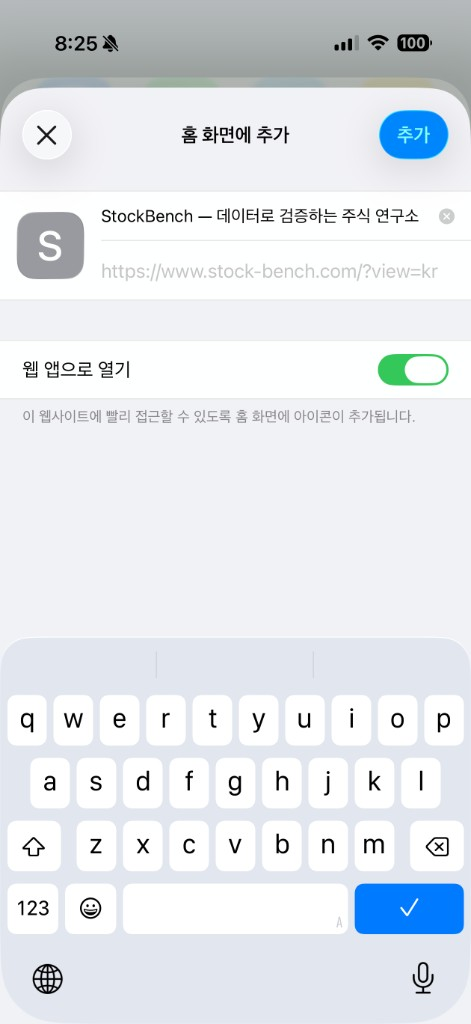
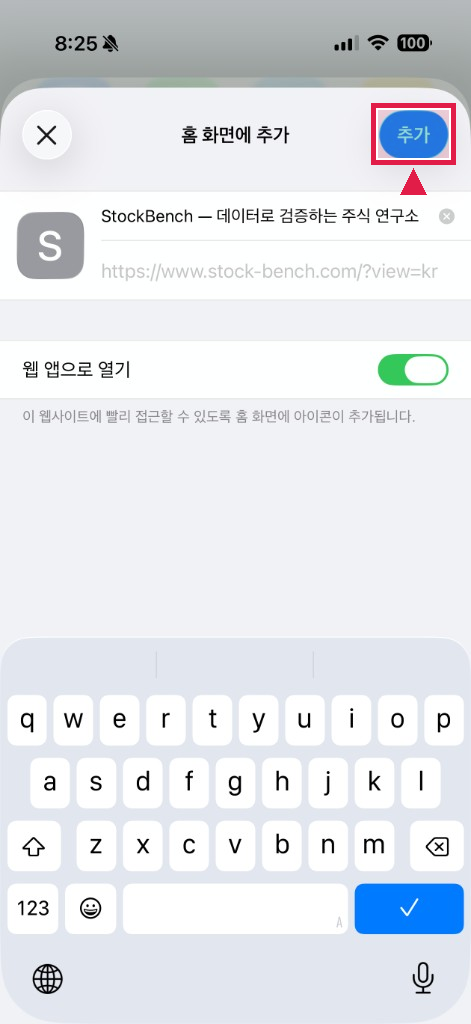
Bake tap markers into iOS push guide screenshots.
CSS overlays were deployed but not reliably visible, so draw red boxes and arrows directly on the guide images.

Changed region(s): [[0.7728, 0.0938, 0.9809, 0.1875]]

diff --git a/src/components/IosPushGuide.tsx b/src/components/IosPushGuide.tsx
@@ -4,55 +4,16 @@ import Image from "next/image";
 import { useState } from "react";
 import styles from "./IosPushGuide.module.css";
 
-type GuideStep = {
-  src: string;
-  caption: string;
-  /** 눌러야 할 위치 (스크린샷 대비 %) */
-  hotspot: { left: number; top: number; width: number; height: number };
-  /** 화살표를 하이라이트 위/아래 중 어디에 둘지 */
-  arrow: "above" | "below";
-};
-
-const STEPS: GuideStep[] = [
-  {
-    src: "/guide/ios-push/1-menu.png",
-    caption: "Safari 메뉴에서 공유",
-    hotspot: { left: 36, top: 58.4, width: 62, height: 5 },
-    arrow: "above",
-  },
-  {
-    src: "/guide/ios-push/2-share.png",
-    caption: "홈 화면에 추가",
-    hotspot: { left: 7.5, top: 58.4, width: 89, height: 5 },
-    arrow: "above",
-  },
-  {
-    src: "/guide/ios-push/3-add.png",
-    caption: "추가 누르기",
-    hotspot: { left: 79.5, top: 10.4, width: 16.5, height: 5.4 },
-    arrow: "below",
-  },
-  {
-    src: "/guide/ios-push/4-allow.png",
-    caption: "아이콘으로 열고 알림 허용",
-    hotspot: { left: 50.5, top: 57.3, width: 34, height: 5.6 },
-    arrow: "above",
-  },
+const STEPS = [
+  { src: "/guide/ios-push/1-menu.png", caption: "Safari 메뉴에서 공유" },
+  { src: "/guide/ios-push/2-share.png", caption: "홈 화면에 추가" },
+  { src: "/guide/ios-push/3-add.png", caption: "추가 누르기" },
+  { src: "/guide/ios-push/4-allow.png", caption: "아이콘으로 열고 알림 허용" },
 ];
 
 export function IosPushGuide({ onClose }: { onClose: () => void }) {
   const [active, setActive] = useState(0);
   const step = STEPS[active];
-  const arrowStyle =
-    step.arrow === "above"
-      ? {
-          left: `${step.hotspot.left + step.hotspot.width / 2}%`,
-          bottom: `${100 - step.hotspot.top + 0.8}%`,
-        }
-      : {
-          left: `${step.hotspot.left + step.hotspot.width / 2}%`,
-          top: `${step.hotspot.top + step.hotspot.height + 0.8}%`,
-        };
 
   return (
     <section className={styles.panel} aria-label="iPhone 알림 켜는 방법">
@@ -77,23 +38,7 @@ export function IosPushGuide({ onClose }: { onClose: () => void }) {
             width={471}
             height={1024}
             sizes="(max-width: 520px) calc(100vw - 72px), 360px"
-          />
-          <span
-            className={styles.hotspot}
-            style={{
-              left: `${step.hotspot.left}%`,
-              top: `${step.hotspot.top}%`,
-              width: `${step.hotspot.width}%`,
-              height: `${step.hotspot.height}%`,
-            }}
-            aria-hidden
-          />
-          <span
-            className={`${styles.arrow} ${
-              step.arrow === "above" ? styles.arrowDown : styles.arrowUp
-            }`}
-            style={arrowStyle}
-            aria-hidden
+            priority={active === 0}
           />
         </div>
       </div>

diff --git a/src/components/IosPushGuide.module.css b/src/components/IosPushGuide.module.css
@@ -91,65 +91,6 @@
   background: #fff;
 }
 
-.hotspot {
-  position: absolute;
-  box-sizing: border-box;
-  border: 2.5px solid #e11d48;
-  border-radius: 8px;
-  box-shadow:
-    0 0 0 2px rgba(255, 255, 255, 0.85),
-    0 0 12px rgba(225, 29, 72, 0.45);
-  pointer-events: none;
-  animation: hotspotPulse 1.6s ease-in-out infinite;
-}
-
-.arrow {
-  position: absolute;
-  width: 0;
-  height: 0;
-  transform: translateX(-50%);
-  border-left: 0.5rem solid transparent;
-  border-right: 0.5rem solid transparent;
-  filter: drop-shadow(0 0 2px rgba(255, 255, 255, 0.9));
-  pointer-events: none;
-  animation: arrowNudge 1.6s ease-in-out infinite;
-}
-
-.arrowDown {
-  border-top: 0.7rem solid #e11d48;
-}
-
-.arrowUp {
-  border-bottom: 0.7rem solid #e11d48;
-}
-
-@keyframes hotspotPulse {
-  0%,
-  100% {
-    opacity: 1;
-  }
-  50% {
-    opacity: 0.55;
-  }
-}
-
-@keyframes arrowNudge {
-  0%,
-  100% {
-    transform: translate(-50%, 0);
-  }
-  50% {
-    transform: translate(-50%, -0.18rem);
-  }
-}
-
-@media (prefers-reduced-motion: reduce) {
-  .hotspot,
-  .arrow {
-    animation: none;
-  }
-}
-
 .controls {
   display: grid;
   grid-template-columns: 4.6rem 1fr 4.6rem;
